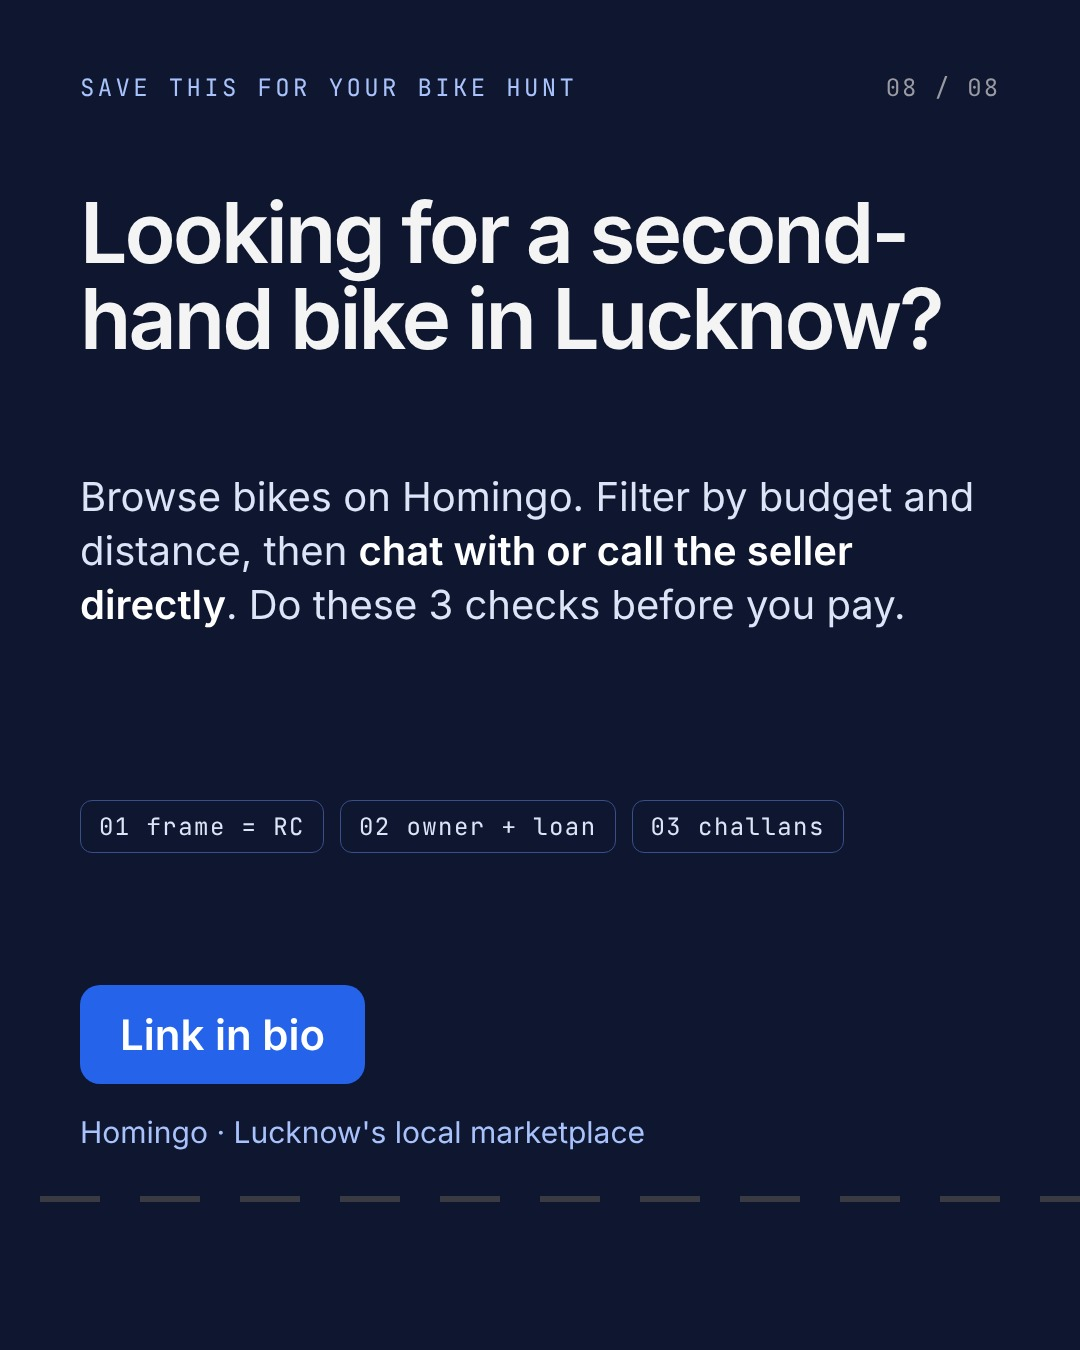
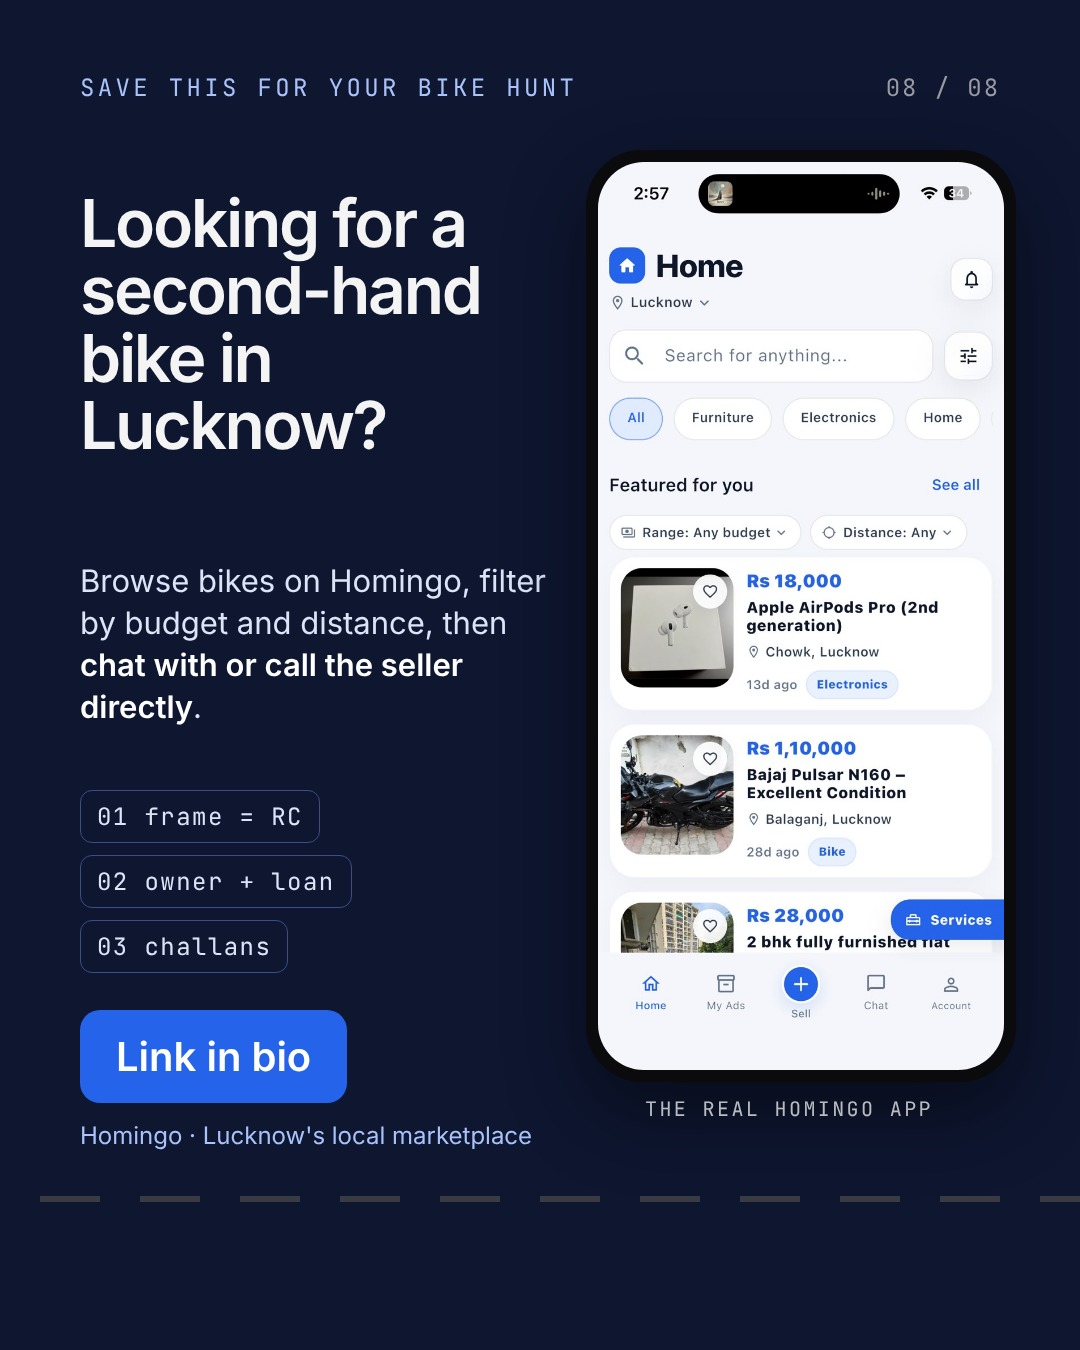
homingo c1/c2 2026-10-11: end slides show the real app UI (home, listing) in a phone frame

diff --git a/posts/homingo/2026-10-11-c2-which-ad-would-you-tap.html b/posts/homingo/2026-10-11-c2-which-ad-would-you-tap.html
@@ -164,15 +164,17 @@ html,body{background:var(--bg)}
 <section class="slide" style="background:#2563EB;color:#fff">
   <div class="num" style="color:#DCE6FD">08 / 08</div>
   <div class="tag" style="color:#fff">Save this for your next listing</div>
-  <div class="h" style="top:190px;font-size:88px">Got something to sell in Lucknow?</div>
-  <div class="b" style="top:470px;color:#EAF0FE">List it <strong style="color:#fff">free</strong> on Homingo. Tap <strong style="color:#fff">Sell</strong>, add your 5 shots and a clear title. Buyers chat with or call you directly.</div>
-  <div style="position:absolute;left:80px;right:80px;top:790px;display:flex;flex-wrap:wrap;gap:14px">
-    <span class="chip">01 daylight</span><span class="chip">02 the flaw</span><span class="chip">03 proof</span><span class="chip">04 size</span><span class="chip">05 working</span>
+  <div class="h" style="top:190px;font-size:68px;width:470px">Got something to sell in Lucknow?</div>
+  <div class="b" style="top:470px;width:470px;font-size:31px;color:#EAF0FE">List it <strong style="color:#fff">free</strong> on Homingo. Tap <strong style="color:#fff">Sell</strong>, add your 5 shots and a clear title. Buyers <strong style="color:#fff">chat with or call you</strong> directly.</div>
+  <div style="position:absolute;left:80px;width:470px;top:770px;display:flex;flex-wrap:wrap;gap:12px">
+    <span class="chip" style="font-size:24px;padding:10px 16px">01 daylight</span><span class="chip" style="font-size:24px;padding:10px 16px">02 the flaw</span><span class="chip" style="font-size:24px;padding:10px 16px">03 proof</span><span class="chip" style="font-size:24px;padding:10px 16px">04 size</span><span class="chip" style="font-size:24px;padding:10px 16px">05 working</span>
   </div>
-  <div style="position:absolute;left:80px;bottom:200px;right:80px">
-    <div style="display:inline-block;background:#fff;color:#1D4ED8;font-weight:600;font-size:42px;padding:24px 40px;border-radius:20px">Link in bio</div>
-    <div style="margin-top:30px;font-size:30px;color:#DCE6FD">Homingo · Lucknow's local marketplace</div>
+  <div style="position:absolute;left:80px;bottom:200px;width:470px">
+    <div style="display:inline-block;background:#fff;color:#1D4ED8;font-weight:600;font-size:40px;padding:22px 36px;border-radius:20px">Link in bio</div>
+    <div style="margin-top:18px;font-size:24px;color:#DCE6FD">Homingo · Lucknow's local marketplace</div>
   </div>
+  <div style="position:absolute;right:64px;top:150px;width:430px;height:932px;border-radius:56px;background:#0B0B0D;padding:12px;box-shadow:0 30px 80px rgba(0,0,0,.35)"><img src="../../brand/homingo-app/listing.jpg" style="width:100%;height:100%;object-fit:cover;object-position:top;border-radius:46px;display:block"></div>
+  <div style="position:absolute;right:64px;top:1096px;width:454px;text-align:center;font-family:Mono,monospace;font-size:20px;letter-spacing:.12em;color:#DCE6FD">WHAT YOUR BUYER SEES · REAL APP</div>
 </section>
 
 </div></body></html>

diff --git a/posts/homingo/2026-10-11-c1-used-bike-papers-first.html b/posts/homingo/2026-10-11-c1-used-bike-papers-first.html
@@ -132,15 +132,17 @@ html,body{background:#0A0A0B}
 <section class="slide" style="background:#0E1630">
   <div class="num">08 / 08</div>
   <div class="tag" style="color:#A9C2FB">Save this for your bike hunt</div>
-  <div class="h" style="top:190px;font-size:84px">Looking for a second-hand bike in Lucknow?</div>
-  <div class="b" style="top:470px;color:#DCE4F7">Browse bikes on Homingo. Filter by budget and distance, then <strong>chat with or call the seller directly</strong>. Do these 3 checks before you pay.</div>
-  <div style="position:absolute;left:80px;top:800px;display:flex;gap:16px;flex-wrap:wrap;right:80px">
-    <span class="chip" style="border-color:#3A4E8A;color:#DCE4F7">01 frame = RC</span><span class="chip" style="border-color:#3A4E8A;color:#DCE4F7">02 owner + loan</span><span class="chip" style="border-color:#3A4E8A;color:#DCE4F7">03 challans</span>
+  <div class="h" style="top:190px;font-size:66px;width:470px">Looking for a second-hand bike in Lucknow?</div>
+  <div class="b" style="top:560px;width:470px;font-size:31px;color:#DCE4F7">Browse bikes on Homingo, filter by budget and distance, then <strong>chat with or call the seller directly</strong>.</div>
+  <div style="position:absolute;left:80px;top:790px;width:470px;display:flex;gap:12px;flex-wrap:wrap">
+    <span class="chip" style="font-size:24px;padding:10px 16px;border-color:#3A4E8A;color:#DCE4F7">01 frame = RC</span><span class="chip" style="font-size:24px;padding:10px 16px;border-color:#3A4E8A;color:#DCE4F7">02 owner + loan</span><span class="chip" style="font-size:24px;padding:10px 16px;border-color:#3A4E8A;color:#DCE4F7">03 challans</span>
   </div>
-  <div style="position:absolute;left:80px;bottom:200px;right:80px">
-    <div style="display:inline-block;background:var(--hb);color:#fff;font-weight:600;font-size:42px;padding:24px 40px;border-radius:20px">Link in bio</div>
-    <div style="margin-top:30px;font-size:30px;color:#A9C2FB">Homingo · Lucknow's local marketplace</div>
+  <div style="position:absolute;left:80px;bottom:200px;width:470px">
+    <div style="display:inline-block;background:var(--hb);color:#fff;font-weight:600;font-size:40px;padding:22px 36px;border-radius:20px">Link in bio</div>
+    <div style="margin-top:18px;font-size:24px;color:#A9C2FB">Homingo · Lucknow's local marketplace</div>
   </div>
+  <div style="position:absolute;right:64px;top:150px;width:430px;height:932px;border-radius:56px;background:#0B0B0D;padding:12px;box-shadow:0 30px 80px rgba(0,0,0,.45)"><img src="../../brand/homingo-app/home.jpg" style="width:100%;height:100%;object-fit:cover;object-position:top;border-radius:46px;display:block"></div>
+  <div style="position:absolute;right:64px;top:1096px;width:454px;text-align:center;font-family:Mono,monospace;font-size:20px;letter-spacing:.12em;opacity:.75">THE REAL HOMINGO APP</div>
 </section>
 
 </div></body></html>
